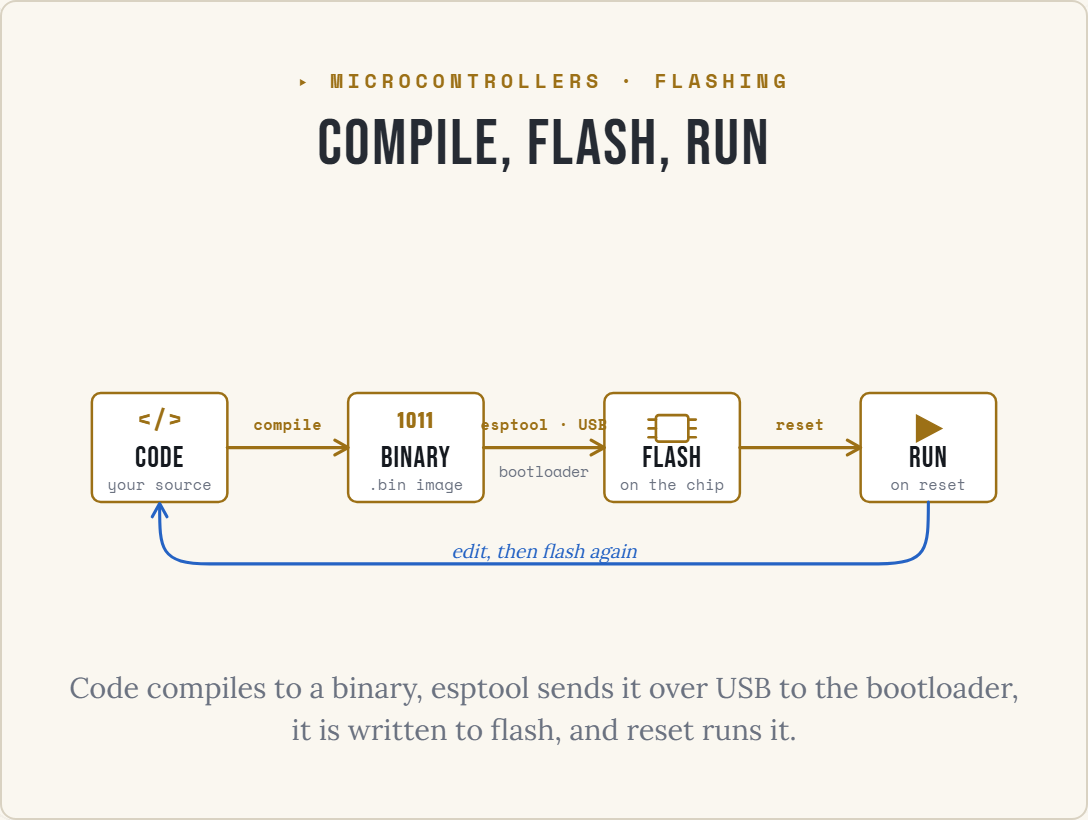
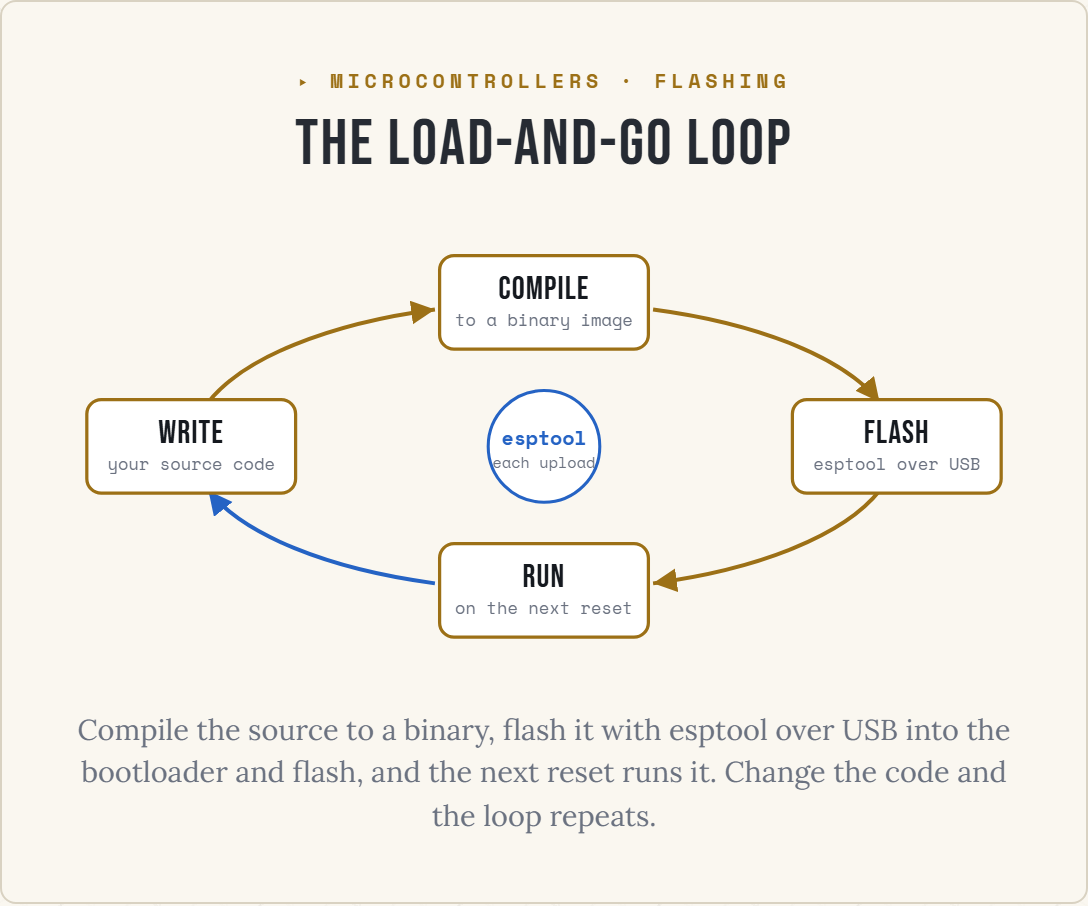
redo(diagrams): mcu-flash-loop — a real dev loop (6/11)
Rebuild to the house bar: the flashing cycle as a real loop, not a linear chain.
Four nodes (WRITE, COMPILE, FLASH, RUN) on a landscape ellipse, gold forward
arcs, a blue return arc, and esptool at the hub as the tool you run each upload.
Marker fills re-theme via CSS class. Token color, both themes, landscape 1.22.

diff --git a/src/components/guide/diagrams/McuFlashLoop.tsx b/src/components/guide/diagrams/McuFlashLoop.tsx
@@ -1,116 +1,98 @@
-// The flashing loop (v2). Microcontrollers & ESP32 cluster.
+// The flashing loop (diagram-standards v2). MCU cluster, diagram 6.
+// Owner-picked F4: a real loop with esptool at the hub.
 //
-// Teaching point: your code compiles to a binary, esptool sends it over USB to
-// the chip's bootloader, it is written to flash, and the next reset runs it. Then
-// you edit and do it again: a load-and-go loop.
+// Teaching point (lesson 5): flashing is a load-and-go loop. You write source,
+// compile it to a binary, flash it with esptool over USB into the bootloader and
+// on into flash, and the next reset runs it; change the code and the loop repeats.
+// A cyclic process gets a real loop (four nodes on a landscape ellipse, gold
+// forward arcs, a blue return arc), with esptool, the tool you run each upload,
+// at the hub.
 //
-// Landscape desktop/print: a left-to-right rail of four stages with labelled
-// arrows, plus a blue return arc (edit and repeat). REFLOWS on a phone to a
-// vertical stage list. Token-only color.
-import { type ReactNode } from "react";
+// Arc geometry computed once at module scope. Color via CSS classes (marker fills
+// included) so both themes flip. Header + caption from the DiagramFrame.
 import { DiagramFrame } from "./DiagramFrame";
 
-const CX = [69, 243, 417, 591];
-const NY = 108, NH = 74;
-
-function Node({ cx, icon, name, sub }: { cx: number; icon: ReactNode; name: string; sub: string }) {
-  return (
-    <g>
-      <rect className="fl-box" x={cx - 46} y={NY} width={92} height={NH} rx={6} />
-      <g transform={`translate(${cx},${NY + 24})`}>{icon}</g>
-      <text className="fl-nm" x={cx} y={NY + 50} textAnchor="middle">{name}</text>
-      <text className="fl-sub" x={cx} y={NY + 66} textAnchor="middle">{sub}</text>
-    </g>
-  );
-}
-
-function Arrow({ x0, x1, label, sub }: { x0: number; x1: number; label: string; sub?: string }) {
-  const mid = (x0 + x1) / 2, y = NY + NH / 2;
-  return (
-    <g>
-      <line className="fl-arw" x1={x0} y1={y} x2={x1 - 2} y2={y} />
-      <path className="fl-arw" fill="none" d={`M${x1 - 9},${y - 5} L${x1},${y} L${x1 - 9},${y + 5}`} />
-      <text className="fl-al" x={mid} y={y - 12} textAnchor="middle">{label}</text>
-      {sub ? <text className="fl-as" x={mid} y={y + 20} textAnchor="middle">{sub}</text> : null}
-    </g>
-  );
-}
+const CX = 270, CY = 118, RX = 196, RY = 80;
+const pt = (deg: number): [number, number] => {
+  const a = (deg * Math.PI) / 180;
+  return [CX + RX * Math.cos(a), CY + RY * Math.sin(a)];
+};
+const arcD = (a1: number, a2: number, gap = 18) => {
+  const [x1, y1] = pt(a1 + gap), [x2, y2] = pt(a2 - gap);
+  return `M${x1.toFixed(1)} ${y1.toFixed(1)} A${RX} ${RY} 0 0 1 ${x2.toFixed(1)} ${y2.toFixed(1)}`;
+};
+const NODES = [
+  { deg: 180, t: "WRITE", s: "your source code" },
+  { deg: 270, t: "COMPILE", s: "to a binary image" },
+  { deg: 360, t: "FLASH", s: "esptool over USB" },
+  { deg: 450, t: "RUN", s: "on the next reset" },
+];
 
 export function McuFlashLoop({ caption }: { caption?: string }) {
   return (
     <DiagramFrame
       eyebrow="MICROCONTROLLERS · FLASHING"
       tone="gold"
-      title="Compile, flash, run"
-      ariaLabel="The flashing loop, left to right. Your code compiles to a binary image. The esptool utility sends that binary over USB to the chip's bootloader, which writes it into flash memory. The next reset runs it. Then you edit the code and do it again: a blue return arc closes the loop back to the start."
+      title="The load-and-go loop"
+      ariaLabel="The flashing loop, drawn as a cycle. You write your source code, compile it to a binary image, flash it with esptool over USB into the ESP32's bootloader and on into flash, and the next reset runs it. esptool, at the hub, is the upload tool you run each time. Change the code and the loop repeats, the same every time you hit upload."
       caption={caption}
-      defaultCaption="Code compiles to a binary, esptool sends it over USB to the bootloader, it is written to flash, and reset runs it."
+      defaultCaption="Compile the source to a binary, flash it with esptool over USB into the bootloader and flash, and the next reset runs it. Change the code and the loop repeats."
     >
       <style>{CSS}</style>
-
       <div className="fl">
-        {/* desktop / print */}
-        <svg className="fl-scene" viewBox="0 0 660 260" aria-hidden="true">
-          <Node cx={CX[0]} name="CODE" sub="your source" icon={<text className="fl-ic" textAnchor="middle">{"</>"}</text>} />
-          <Node cx={CX[1]} name="BINARY" sub=".bin image" icon={<text className="fl-icn" textAnchor="middle">1011</text>} />
-          <Node cx={CX[2]} name="FLASH" sub="on the chip" icon={
-            <g>
-              <rect className="fl-chip" x={-11} y={-9} width={22} height={18} rx={2} />
-              {[-6, 0, 6].map((o) => <line key={`a${o}`} className="fl-pin" x1={-11} y1={o} x2={-16} y2={o} />)}
-              {[-6, 0, 6].map((o) => <line key={`b${o}`} className="fl-pin" x1={11} y1={o} x2={16} y2={o} />)}
-            </g>
-          } />
-          <Node cx={CX[3]} name="RUN" sub="on reset" icon={<path className="fl-play" d="M-8,-9 L-8,9 L9,0 Z" />} />
+        <svg className="fl-svg" viewBox="0 0 540 236" aria-hidden="true">
+          <defs>
+            <marker id="fl-g" markerWidth="9" markerHeight="9" refX="6" refY="3" orient="auto">
+              <path d="M0 0 L6 3 L0 6 Z" className="fl-mk-g" />
+            </marker>
+            <marker id="fl-b" markerWidth="9" markerHeight="9" refX="6" refY="3" orient="auto">
+              <path d="M0 0 L6 3 L0 6 Z" className="fl-mk-b" />
+            </marker>
+          </defs>
 
-          <Arrow x0={CX[0] + 46} x1={CX[1] - 46} label="compile" />
-          <Arrow x0={CX[1] + 46} x1={CX[2] - 46} label="esptool · USB" sub="bootloader" />
-          <Arrow x0={CX[2] + 46} x1={CX[3] - 46} label="reset" />
+          <path d={arcD(180, 270)} className="fl-arc-g" markerEnd="url(#fl-g)" />
+          <path d={arcD(270, 360)} className="fl-arc-g" markerEnd="url(#fl-g)" />
+          <path d={arcD(360, 450)} className="fl-arc-g" markerEnd="url(#fl-g)" />
+          <path d={arcD(450, 540)} className="fl-arc-b" markerEnd="url(#fl-b)" />
 
-          {/* return arc: edit and repeat */}
-          <path className="fl-ret" fill="none" d={`M${CX[3]},${NY + NH} C${CX[3]},214 ${CX[3]},224 ${CX[3] - 34},224 L${CX[0] + 34},224 C${CX[0]},224 ${CX[0]},214 ${CX[0]},${NY + NH + 2}`} />
-          <path className="fl-ret" fill="none" d={`M${CX[0] - 5},${NY + NH + 10} L${CX[0]},${NY + NH + 1} L${CX[0] + 5},${NY + NH + 10}`} />
-          <text className="fl-retl" x={330} y={220} textAnchor="middle">edit, then flash again</text>
+          {NODES.map((n) => {
+            const [x, y] = pt(n.deg);
+            return (
+              <g key={n.t}>
+                <rect x={x - 58} y={y - 26} width="116" height="52" rx="8" className="fl-node" />
+                <text x={x} y={y - 2} textAnchor="middle" className="fl-title">{n.t}</text>
+                <text x={x} y={y + 13} textAnchor="middle" className="fl-sub">{n.s}</text>
+              </g>
+            );
+          })}
+
+          <circle cx={CX} cy={CY} r="31" className="fl-hub" />
+          <text x={CX} y={CY - 1} textAnchor="middle" className="fl-hub-t">esptool</text>
+          <text x={CX} y={CY + 12} textAnchor="middle" className="fl-hub-s">each upload</text>
         </svg>
-
-        {/* phone reflow */}
-        <div className="fl-phone" aria-hidden="true">
-          {[["CODE", "your source"], ["BINARY", "compile → .bin"], ["FLASH", "esptool over USB → the bootloader writes it"], ["RUN", "the next reset runs it"]].map(([n, s], i) => (
-            <div className="fl-prow" key={n}>
-              <span className="fl-pn">{n}</span>
-              <span className="fl-ps">{s}</span>
-              {i < 3 ? <span className="fl-parr" aria-hidden="true">↓</span> : null}
-            </div>
-          ))}
-          <p className="fl-pret">↺ edit, then flash again</p>
-        </div>
       </div>
     </DiagramFrame>
   );
 }
 
 const CSS = `
-.fl{display:block;}
-.fl-scene{display:block;width:100%;height:auto;overflow:visible;}
-.fl-box{fill:var(--color-navy-dark,#1a1a2e);stroke:var(--color-command-gold,#c8963e);stroke-width:1.7;}
-.fl-arw{fill:none;stroke:var(--color-command-gold,#c8963e);stroke-width:2.2;stroke-linecap:round;stroke-linejoin:round;}
-.fl-ret{fill:none;stroke:var(--color-signal-blue,#4a8fff);stroke-width:2.1;stroke-linecap:round;stroke-linejoin:round;}
-.fl-nm{font-family:var(--font-display,"Bebas Neue",sans-serif);font-size:20px;letter-spacing:.03em;fill:var(--color-title,#f1ece0);}
-.fl-sub{font-family:var(--font-mono,"Space Mono",monospace);font-weight:400;font-size:10.5px;fill:var(--color-muted,#aaa);}
-.fl-al{font-family:var(--font-mono,"Space Mono",monospace);font-weight:700;font-size:10.5px;letter-spacing:.02em;fill:var(--color-command-gold,#c8963e);}
-.fl-as{font-family:var(--font-mono,"Space Mono",monospace);font-weight:400;font-size:10px;fill:var(--color-muted,#aaa);}
-.fl-retl{font-family:var(--font-serif,"Lora",serif);font-style:italic;font-size:13px;fill:var(--color-signal-blue,#4a8fff);}
-.fl-ic{font-family:var(--font-mono,"Space Mono",monospace);font-weight:700;font-size:17px;fill:var(--color-command-gold,#c8963e);}
-.fl-icn{font-family:var(--font-numeral,"Saira Condensed",sans-serif);font-weight:800;font-size:15px;letter-spacing:.06em;fill:var(--color-command-gold,#c8963e);}
-.fl-chip{fill:none;stroke:var(--color-command-gold,#c8963e);stroke-width:1.8;}
-.fl-pin{stroke:var(--color-command-gold,#c8963e);stroke-width:1.8;stroke-linecap:round;}
-.fl-play{fill:var(--color-command-gold,#c8963e);stroke:var(--color-command-gold,#c8963e);stroke-width:1;}
+.fl{max-width:36rem;margin-inline:auto;}
+.fl-svg{display:block;width:100%;height:auto;overflow:visible;}
+.fl-arc-g{fill:none;stroke:var(--color-command-gold,#c8963e);stroke-width:2.2;}
+.fl-arc-b{fill:none;stroke:var(--color-signal-blue,#4a8fff);stroke-width:2.2;}
+.fl-mk-g{fill:var(--color-command-gold,#c8963e);}
+.fl-mk-b{fill:var(--color-signal-blue,#4a8fff);}
+.fl-node{fill:var(--color-navy-dark,#1a1a2e);stroke:var(--color-command-gold,#c8963e);stroke-width:1.8;}
+.fl-title{font-family:var(--font-display,"Bebas Neue",sans-serif);font-size:18px;letter-spacing:.03em;fill:var(--color-title,#f1ece0);}
+.fl-sub{font-family:var(--font-mono,"Space Mono",monospace);font-size:9.5px;fill:var(--color-muted,#aaaaaa);}
+.fl-hub{fill:var(--color-navy-dark,#1a1a2e);stroke:var(--color-signal-blue,#4a8fff);stroke-width:1.7;}
+.fl-hub-t{font-family:var(--font-mono,"Space Mono",monospace);font-weight:700;font-size:11px;fill:var(--color-signal-blue,#4a8fff);}
+.fl-hub-s{font-family:var(--font-mono,"Space Mono",monospace);font-size:8.5px;fill:var(--color-muted,#aaaaaa);}
 
-/* phone reflow */
-.fl-phone{display:none;}
-@media (max-width:520px){ .fl-scene{display:none;} .fl-phone{display:block;} }
-.fl-prow{display:grid;grid-template-columns:5rem 1fr;align-items:baseline;column-gap:.6rem;position:relative;padding-bottom:1.1rem;}
-.fl-pn{font-family:var(--font-display,"Bebas Neue",sans-serif);font-size:1.3rem;letter-spacing:.03em;color:var(--color-command-gold,#c8963e);}
-.fl-ps{font-family:var(--font-serif,"Lora",serif);font-size:.92rem;line-height:1.4;color:var(--color-text,#e8e8e8);}
-.fl-parr{position:absolute;left:1.6rem;bottom:.1rem;color:var(--color-panel-border,#3a3f50);font-size:1rem;}
-.fl-pret{margin:.2rem 0 0;font-family:var(--font-serif,"Lora",serif);font-style:italic;font-size:.9rem;color:var(--color-signal-blue,#4a8fff);}
+/* Tier-B reveal off the frame's armed/in contract (final state under reduced-motion). */
+.dgfrm.armed .fl-svg{opacity:0;transform:translateY(6px);}
+.dgfrm.armed.in .fl-svg{opacity:1;transform:none;transition:opacity .6s ease,transform .6s cubic-bezier(.2,.7,.2,1);}
+@media (prefers-reduced-motion:reduce){
+  .dgfrm .fl-svg{opacity:1!important;transform:none!important;transition:none!important;}
+}
 `;
